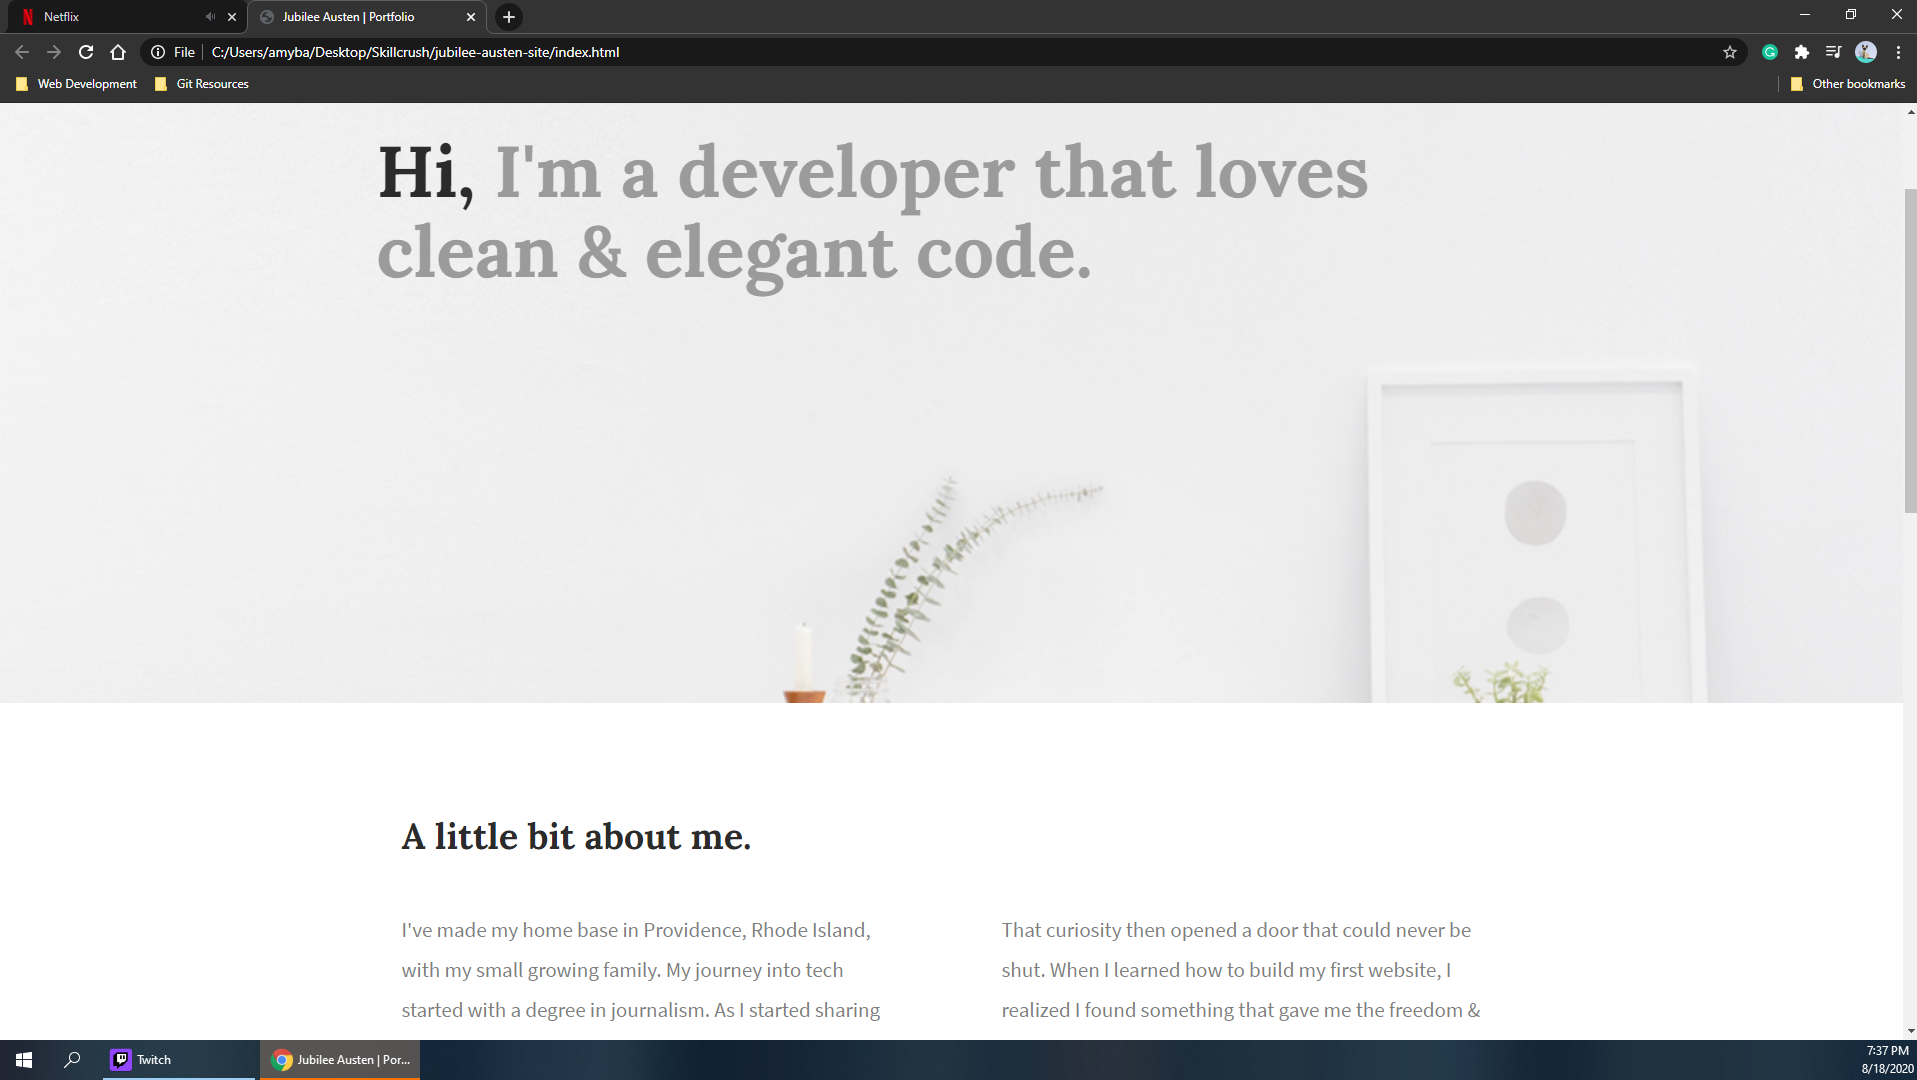
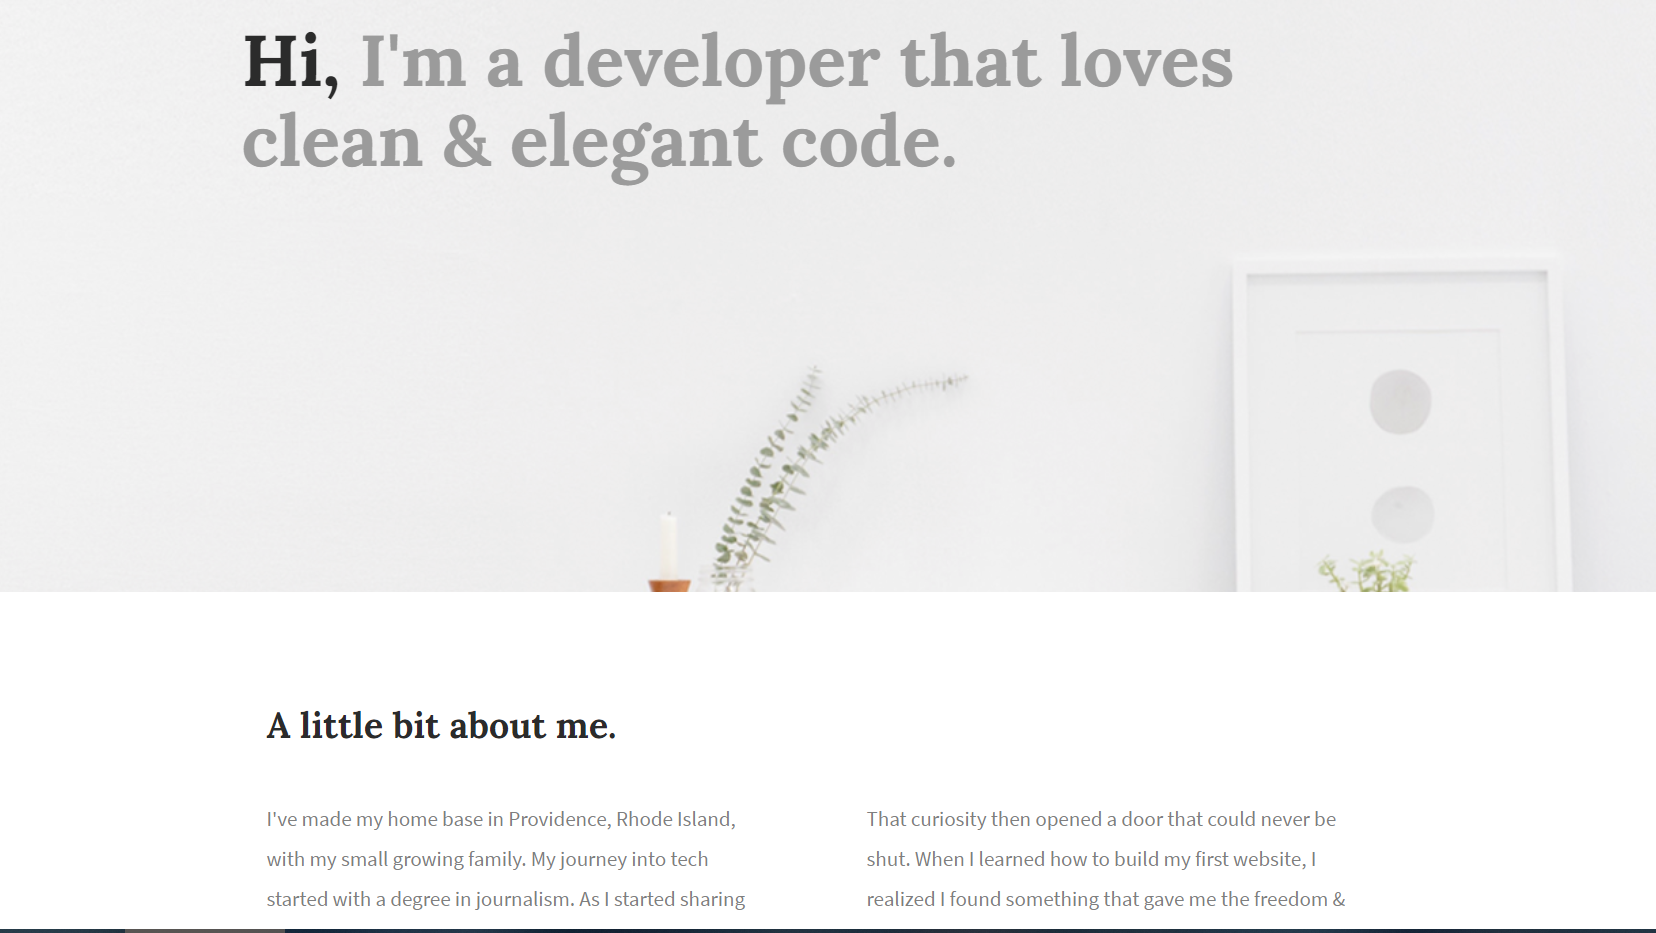
Updated the CSS for my work section

diff --git a/index.html b/index.html
@@ -15,35 +15,61 @@
 </head>
 
 <body>
-    <header id="header-background">
-        <div class="full-width">
-            <div class="navbar">
-                <nav class="navbar navbar-toggleable-md navbar-dark ">
-                        <a class="navbar-brand" href="#about">About</a>
-                        <a class="navbar-brand" href="#work">Work</a>
-                        <a class="navbar-brand" href="#contact">Contact</a>
-                </nav>
-            </div>
-
-            <div id="header-background" class="jumbotron">
+    <header>
+      <div id="header-background" class="bg">
+            <!--Navbar -->
+<nav class="mb-1 navbar navbar-expand-lg navbar-dark">
+  <a class="navbar-brand" href="index.html">Amy Marilu</a>
+  <button class="navbar-toggler" type="button" data-toggle="collapse" data-target="#navbarSupportedContent-555"
+    aria-controls="navbarSupportedContent-555" aria-expanded="false" aria-label="Toggle navigation">
+    <span class="navbar-toggler-icon"></span>
+  </button>
+  <div class="collapse navbar-collapse" id="navbarSupportedContent-555">
+    <ul class="navbar-nav mr-auto">
+      <li class="nav-item">
+        <a class="nav-link" href="#about">About
+          <span class="sr-only">(current)</span>
+        </a>
+      </li>
+      <li class="nav-item">
+        <a class="nav-link" href="#work">Work</a>
+      </li>
+      <li class="nav-item">
+        <a class="nav-link" href="#skills">Skills</a>
+      </li>
+      <li class="nav-item">
+        <a class="nav-link" href="#contact">Contact</a>
+      </li>
+    </ul>
+    <ul class="navbar-nav ml-auto nav-flex-icons">
+      <li class="nav-item avatar">
+        <a class="nav-link p-0" href="#">
+          <img src="img\headshotamb.jpg" class="rounded-circle z-depth-0"
+            alt="avatar image" height="35">
+        </a>
+      </li>
+    </ul>
+  </div>
+</nav>
+<!--/.Navbar -->
+            <div class="bg" class="jumbotron">
               <h1 class="title">Hello, I'm <span>Amy Marilu.</span> <br>
                   I am a front-end developer. </h1>
 
             </div>
-
-
+        </div>
         </div>
     </header>
 
     <main>
         <div class="about">
             <div class="container">
-                <h3>About Me</h3>
+                <h3 class="display-4">About Me</h3>
                 <div class="row">
-                    <div id="headshot" class="col">
+                    <div id="headshot" class="col-sm-4">
                     <img src="img/headshotamb.jpg" class="img-fluid .mx-auto float-left" alt="Headshot Photo">
                     </div>
-                    <div id="about-text" class="col-sm-9">
+                    <div id="about-text" class="col-sm-8">
                     <p>
                         <span>Hi!</span> I am a A creative empath who loves to code. I started taking SkillCrush classes after finding that I wasn't being challenged
                         creatively through my management job. With the support of my husband, I was able to work to become a professional web developer.
@@ -54,17 +80,17 @@
         </div>
 
 
-        <div id="work" class="container-fluid bg-dark">
-            <h3 class="work-text">My Work</h3>
-            <div class="row">
-               <div class="col">
-                 1 of 3
+        <div class="work" class="container-fluid bg-dark">
+            <h3>My Work</h3>
+            <div class="row d-flex justify-content-center">
+               <div class="col-sm-4">
+                 <img src="img\final-jubilee.png" alt="">
                </div>
-               <div class="col">
-                 2 of 3
+               <div class="col-sm-4">
+                 <img src="img\final-rogue.png" alt="">
                </div>
-               <div class="col">
-                 3 of 3
+               <div class="col-sm-4">
+                <img src="img\final-visionproject.png" alt="">
                </div>
              </div>
             </div>
@@ -74,19 +100,124 @@
         </div>
     </main>
     <div id="contact">
-        <footer class="site-footer">
-        <div class="container">
-            <div class="container">
-              <div class="row">
-                <div class="col">
-                  1 of 2
-                </div>
-                <div class="col">
-                  2 of 2
-                </div>
-              </div>
-        </div>
-        </footer>
+<!-- Footer -->
+<footer class="page-footer font-small mdb-color lighten-3 pt-4">
+
+  <!-- Footer Links -->
+  <div class="container text-center text-md-left">
+
+    <!-- Grid row -->
+    <div class="row">
+
+      <!-- Grid column -->
+      <div class="col-md-4 col-lg-3 mr-auto my-md-4 my-0 mt-4 mb-1">
+
+        <!-- Content -->
+        <h5 class="font-weight-bold text-uppercase mb-4">Footer Content</h5>
+        <p>Here you can use rows and columns to organize your footer content.</p>
+        <p>Lorem ipsum dolor sit amet, consectetur adipisicing elit. Fugit amet numquam iure provident voluptate
+          esse
+          quasi, veritatis totam voluptas nostrum.</p>
+
+      </div>
+      <!-- Grid column -->
+
+      <hr class="clearfix w-100 d-md-none">
+
+      <!-- Grid column -->
+      <div class="col-md-2 col-lg-2 mx-auto my-md-4 my-0 mt-4 mb-1">
+
+        <!-- Links -->
+        <h5 class="font-weight-bold text-uppercase mb-4">About</h5>
+
+        <ul class="list-unstyled">
+          <li>
+            <p>
+              <a href="#!">PROJECTS</a>
+            </p>
+          </li>
+          <li>
+            <p>
+              <a href="#!">ABOUT US</a>
+            </p>
+          </li>
+          <li>
+            <p>
+              <a href="#!">BLOG</a>
+            </p>
+          </li>
+          <li>
+            <p>
+              <a href="#!">AWARDS</a>
+            </p>
+          </li>
+        </ul>
+
+      </div>
+      <!-- Grid column -->
+
+      <hr class="clearfix w-100 d-md-none">
+
+      <!-- Grid column -->
+      <div class="col-md-4 col-lg-3 mx-auto my-md-4 my-0 mt-4 mb-1">
+
+        <!-- Contact details -->
+        <h5 class="font-weight-bold text-uppercase mb-4">Address</h5>
+
+        <ul class="list-unstyled">
+          <li>
+            <p>
+              <i class="fas fa-home mr-3"></i> New York, NY 10012, US</p>
+          </li>
+          <li>
+            <p>
+              <i class="fas fa-envelope mr-3"></i> info@example.com</p>
+          </li>
+          <li>
+            <p>
+              <i class="fas fa-phone mr-3"></i> + 01 234 567 88</p>
+          </li>
+          <li>
+            <p>
+              <i class="fas fa-print mr-3"></i> + 01 234 567 89</p>
+          </li>
+        </ul>
+
+      </div>
+      <!-- Grid column -->
+
+      <hr class="clearfix w-100 d-md-none">
+
+      <!-- Grid column -->
+      <div class="col-md-2 col-lg-2 text-center mx-auto my-4">
+
+        <!-- Social buttons -->
+        <h5 class="font-weight-bold text-uppercase mb-4">Follow Me</h5>
+
+        <!-- Twitter -->
+        <a type="button" class="btn-floating btn-tw">
+          <i class="fab fa-twitter"></i>
+        </a>
+       
+
+      </div>
+      <!-- Grid column -->
+
+    </div>
+    <!-- Grid row -->
+
+  </div>
+  <!-- Footer Links -->
+
+  <!-- Copyright -->
+  <div class="footer-copyright text-center py-3">© 2020 Copyright:
+    <a href="https://mdbootstrap.com/"> MDBootstrap.com</a>
+  </div>
+  <!-- Copyright -->
+
+</footer>
+<!-- Footer -->
+      
 </div>
 
 

diff --git a/css/style.css b/css/style.css
@@ -8,16 +8,23 @@ body {
     font-family: 'Karla', sans-serif;
     color: #4c5154;
     text-transform: uppercase;
-    text-align: right;
     background-color: transparent;
 
+}
+
+.bg {
+    background-image: url(../img/hero.jpg);
+    opacity: 85%;
+    background-size: cover;
+    background-position: bottom;
+    background-repeat: no-repeat;
 }
 
 header h1 {
     text-align: left;
     color: #ffffff;
     padding: 80px 40px;
-    font-size: 60px;
+    font-size: 64px;
     font-family: 'Spectral', serif;
 }
 
@@ -40,13 +47,6 @@ h3 {
     color: #2e332f;
 }
 
-#header-background {
-    background-image: url(../img/hero.jpg);
-    opacity: 70%;
-    background-size: cover;
-    background-position: bottom;
-    background-repeat: no-repeat;
-}
 
 .jumbotron p {
     color: #ffffff;
@@ -55,7 +55,7 @@ h3 {
 }
 
 #headshot {
-    padding-bottom: 5em;
+    padding-bottom: 4em;
 }
 
 #headshot img {
@@ -65,29 +65,44 @@ h3 {
 
 }
 
+.about h3 {
+    font-weight: bold;
+    font-size: 2em;
+    margin-top: 2em;
+}
+
 #about-text p {
     font-family: 'Karla', sans-serif;
     font-size: 22px;
-    line-height: inherit;
     text-align: justify;
-    padding-top: 3em;
+    padding: 3em 0 3em 0;
 }
 
 
 
-#carousel-projects {
-    width: 50%;
-    display: flex;
-    align-items: center;
+.work {
+    background-color: #302c23;
+    opacity: 85%;
 }
 
+.work h3 {
+    color: #ffffff;
+    font-weight: bold;
+    font-size: 2em;
+    padding-top: 2em;
+}
 
-
-#work p {
+.work p {
 
 
 }
 
+.work img {
+
+    margin: 3em 4em;
+    width: 75%;
+    
+}
 #contact h4 {
     text-transform: uppercase;
     font-size: 24px;
